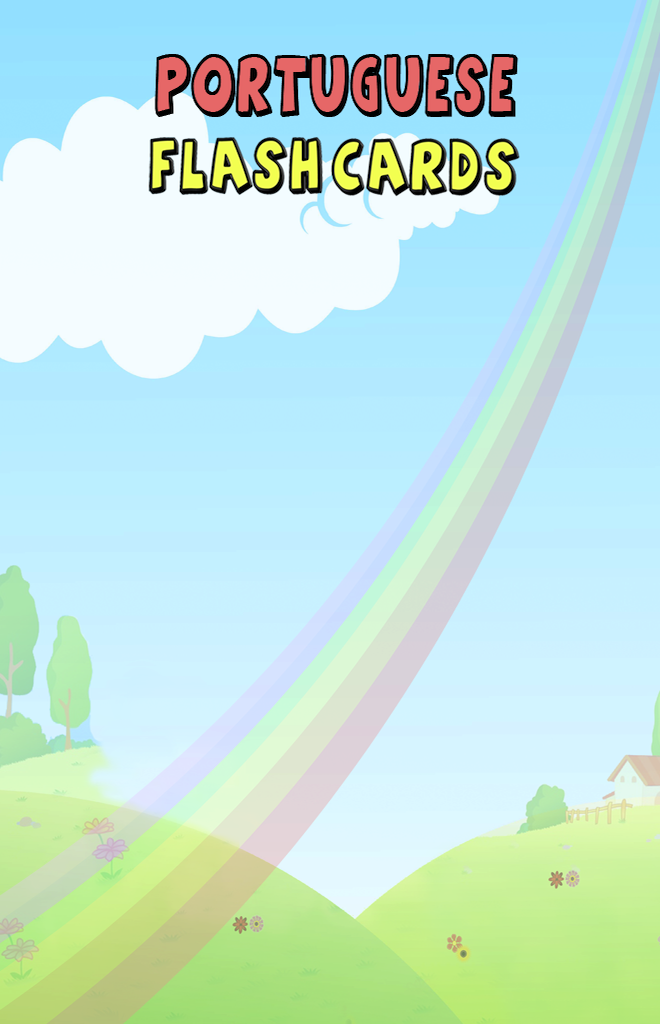
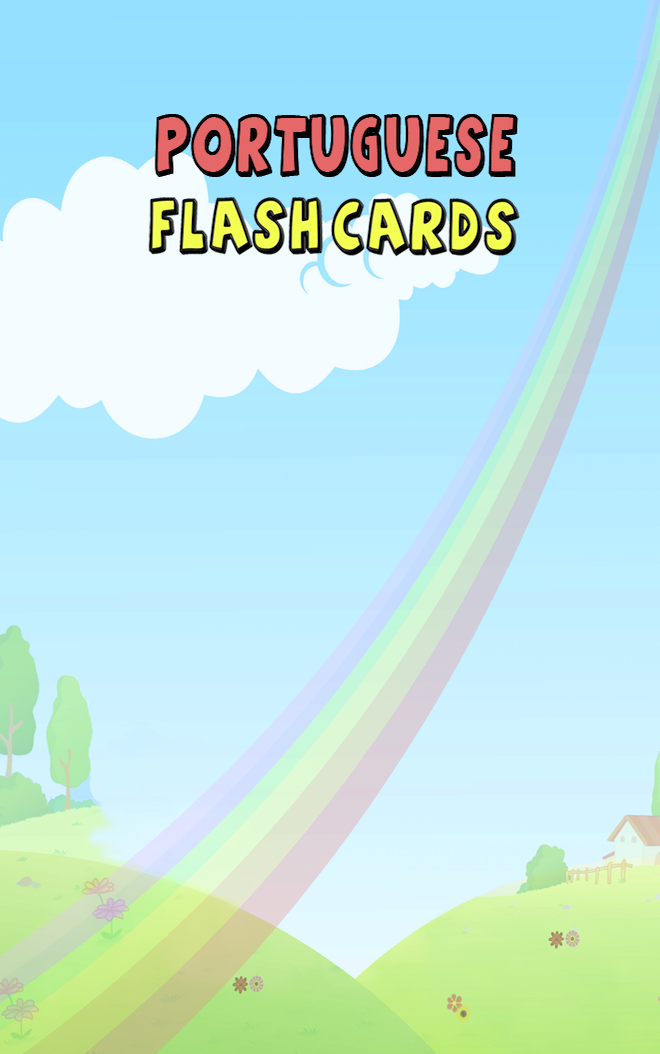
app uploaded on app store

diff --git a/src/screens/Home.js b/src/screens/Home.js
@@ -53,30 +53,38 @@ const Home = () => {
   };
 
   return (
-    <SafeAreaView style={{flex: 1, backgroundColor: '#73cbea'}}>
-      <ImageBackground
-        style={{flex: 1}}
-        source={require('../../Assets4/bgnewcategory.png')}>
-        <Header
-          onPress2={() => setMute(!mute)}
-          mute={mute}
-          onPress={() => {
-            Navigation.navigate('setting', {pr: 'home'});
+    // <SafeAreaView style={{flex: 1, backgroundColor: '#73cbea'}}>
+    <ImageBackground
+      style={{flex: 1}}
+      source={require('../../Assets4/bgnewcategory.png')}>
+      <Header
+        onPress2={() => setMute(!mute)}
+        mute={mute}
+        onPress={() => {
+          Navigation.navigate('setting', {pr: 'home'});
+        }}
+        home
+      />
+      <HorizontalList items={MyData} />
+      <View
+        style={{
+          position: 'relative',
+          width: '100%',
+          bottom: 0,
+          borderWidth: 1,
+          alignItems: 'center',
+        }}>
+        <GAMBannerAd
+          style={{width: '100%'}}
+          unitId={Addsid.BANNER}
+          sizes={[BannerAdSize.FULL_BANNER]}
+          requestOptions={{
+            requestNonPersonalizedAdsOnly: true,
           }}
-          home
         />
-        <HorizontalList items={MyData} />
-        <View style={{position: 'relative', bottom: 0}}>
-          <GAMBannerAd
-            unitId={Addsid.BANNER}
-            sizes={[BannerAdSize.FULL_BANNER]}
-            requestOptions={{
-              requestNonPersonalizedAdsOnly: true,
-            }}
-          />
-        </View>
-      </ImageBackground>
-    </SafeAreaView>
+      </View>
+    </ImageBackground>
+    // </SafeAreaView>
   );
 };
 

diff --git a/src/screens/Detials.js b/src/screens/Detials.js
@@ -305,7 +305,7 @@ const Detials = props => {
                 paly();
               }}>
               <Image
-                style={[styles.btn2, setting.Swipe == 1 && {marginLeft: '60%'}]}
+                style={[styles.btn2, setting.Swipe == 1 && {marginLeft: '62%'}]}
                 source={require('../../Assets4/btnrepeat_normal.png')}
                 resizeMode="contain"
               />
@@ -331,13 +331,15 @@ const Detials = props => {
             )}
           </View>
         </View>
-        <GAMBannerAd
-          unitId={Addsid.BANNER}
-          sizes={[BannerAdSize.FULL_BANNER]}
-          requestOptions={{
-            requestNonPersonalizedAdsOnly: true,
-          }}
-        />
+        <View style={{bottom: 0, width: '100%', alignItems: 'center'}}>
+          <GAMBannerAd
+            unitId={Addsid.BANNER}
+            sizes={[BannerAdSize.FULL_BANNER]}
+            requestOptions={{
+              requestNonPersonalizedAdsOnly: true,
+            }}
+          />
+        </View>
       </GestureRecognizer>
     </SafeAreaView>
   );

diff --git a/src/screens/SplashScreen.js b/src/screens/SplashScreen.js
@@ -1,8 +1,10 @@
-import {View, Text, Image} from 'react-native';
-import React, {startTransition, useEffect} from 'react';
+import {View, Text, Image, Dimensions} from 'react-native';
+import React, {useEffect} from 'react';
 import {useNavigation, StackActions} from '@react-navigation/native';
 
 const SplashScreen = () => {
+  const {height, width} = Dimensions.get('window');
+
   const navigation = useNavigation();
   useEffect(() => {
     setTimeout(() => {
@@ -10,9 +12,10 @@ const SplashScreen = () => {
     }, 2000);
   });
   return (
-    <View style={{flex: 1, marginHorizontal: 1}}>
+    <View style={{height: height, width: width, marginHorizontal: 1}}>
       <Image
         style={{height: '100%', width: '100%'}}
+        resizeMode="stretch"
         source={require('../../Assets4/splash.png')}
       />
     </View>

diff --git a/src/screens/SettingScreen.js b/src/screens/SettingScreen.js
@@ -177,6 +177,7 @@ const SettingScreen = props => {
   return (
     <SafeAreaView style={{flex: 1, backgroundColor: '#73cbea'}}>
       <ImageBackground
+        resizeMode="cover"
         style={{flex: 1}}
         source={require('../../Assets4/setting_screen.png')}>
         <Header onPress2={() => setMute(!mute)} mute={mute} />
@@ -285,7 +286,7 @@ const SettingScreen = props => {
             </TouchableOpacity>
           </View>
         </ScrollView>
-        <View style={{position: 'relative', bottom: 0}}>
+        <View style={{position: 'relative', alignItems: 'center', bottom: 0}}>
           <GAMBannerAd
             unitId={Addsid.BANNER}
             sizes={[BannerAdSize.FULL_BANNER]}

diff --git a/src/screens/QuestionPage.js b/src/screens/QuestionPage.js
@@ -285,7 +285,15 @@ const QuestionPage = props => {
             />
           </View>
         </View>
-        <View style={{bottom: 0, borderWidth: 0, backgroundColor: 'white'}}>
+        <View
+          style={{
+            bottom: 0,
+
+            alignItems: 'center',
+
+            borderWidth: 0,
+            backgroundColor: 'white',
+          }}>
           <GAMBannerAd
             unitId={Addsid.BANNER}
             sizes={[BannerAdSize.FULL_BANNER]}

diff --git a/src/screens/NextScreen.js b/src/screens/NextScreen.js
@@ -179,7 +179,14 @@ const NextScreen = ({route}) => {
             </Text>
           </View>
         </View>
-        <View style={{position: 'absolute', bottom: 0}}>
+        <View
+          style={{
+            position: 'relative',
+
+            alignItems: 'center',
+
+            bottom: 0,
+          }}>
           <GAMBannerAd
             unitId={Addsid.BANNER}
             sizes={[BannerAdSize.FULL_BANNER]}
